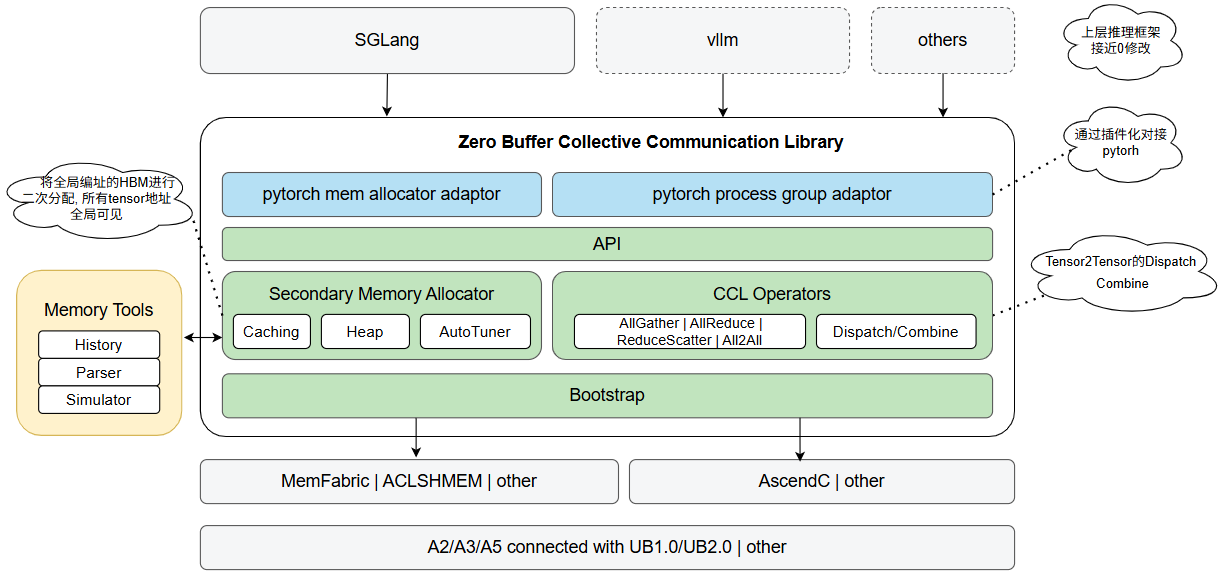
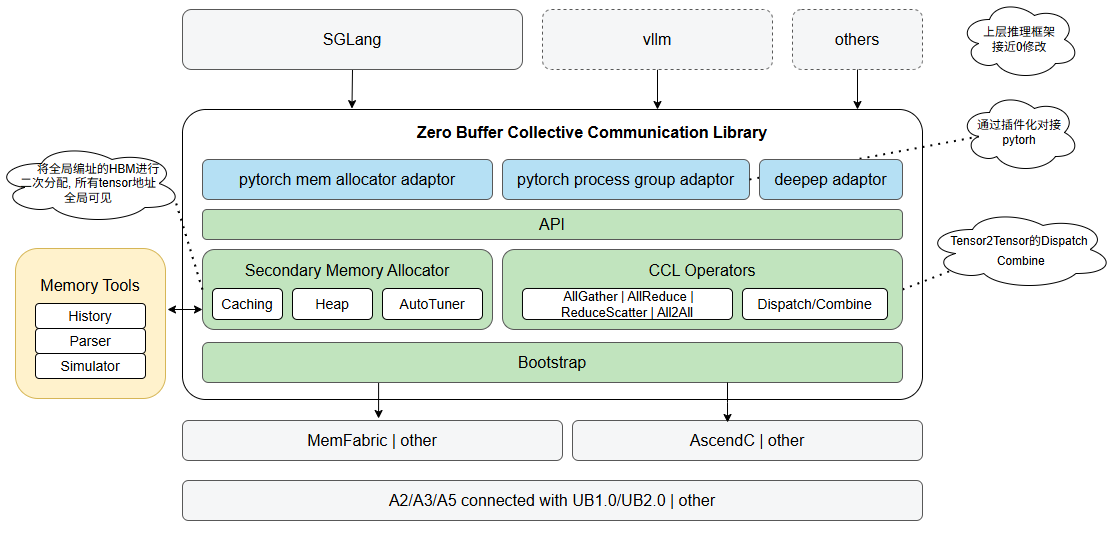
- updated architecture and rename deep adaptor filename

diff --git a/contrib/zbccl/src/csrc/adaptor/deepep/zbccl_deepep.h b/contrib/zbccl/src/csrc/adaptor/deepep/zbccl_deepep.h
@@ -22,8 +22,8 @@
 #include <optional>
 #include "aclnn/opdev/platform.h"
 
-#include "zbccl_config.h"
-#include "zbccl_event.h"
+#include "zbccl_deepep_config.h"
+#include "zbccl_deep_event.h"
 
 namespace zbccl {
 namespace adaptor {

diff --git a/contrib/zbccl/src/csrc/adaptor/deepep/zbccl_deepep_config.cpp b/contrib/zbccl/src/csrc/adaptor/deepep/zbccl_deepep_config.cpp
@@ -10,7 +10,7 @@
  * See the Mulan PSL v2 for more details.
  */
 
-#include "zbccl_config.h"
+#include "zbccl_deepep_config.h"
 
 namespace zbccl {
 namespace adaptor {
